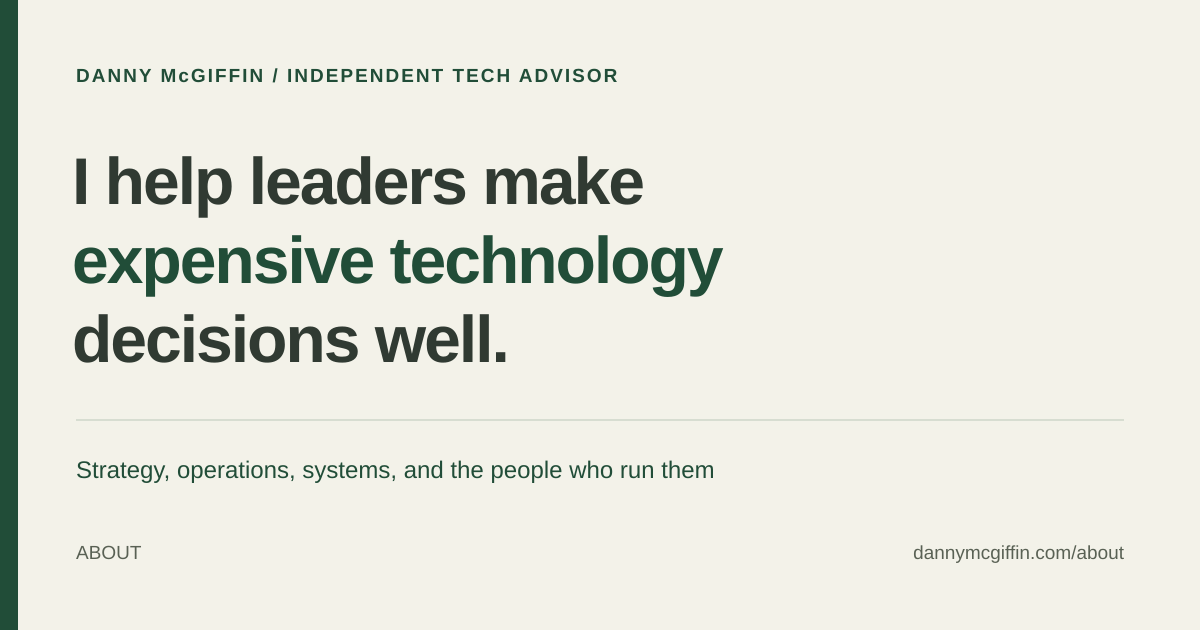
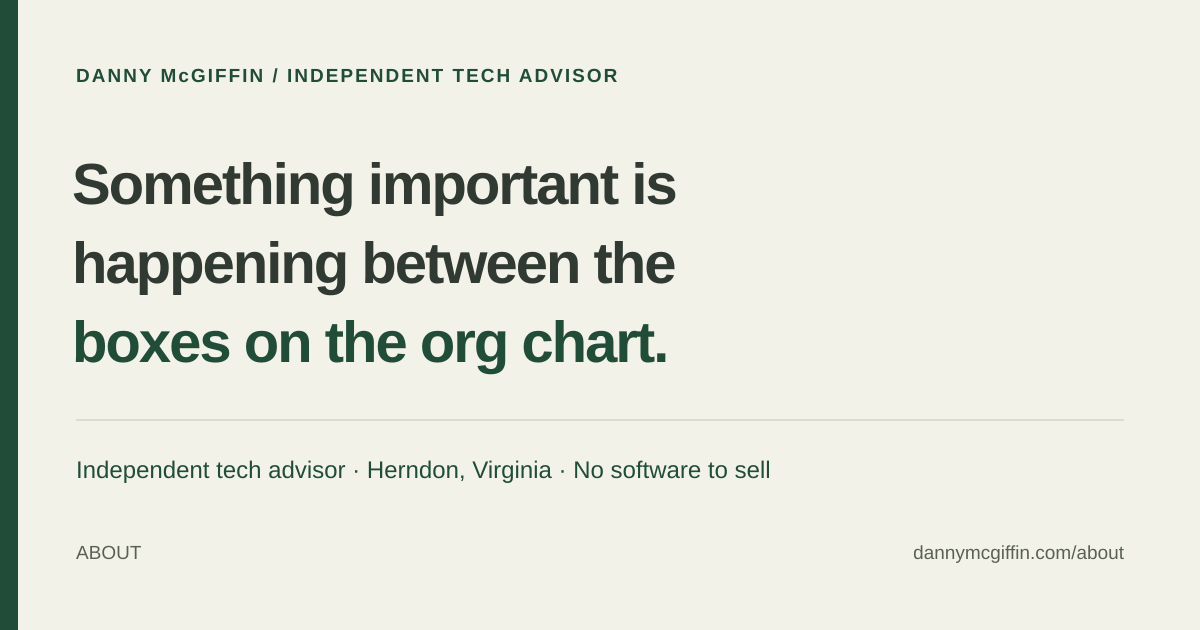
Rebuild About around the person; nest About under Home
- Lead with the between-the-boxes line, headshot, and a short intro
- Add the Army-to-independent arc and why independent
- Keep the pattern section once; drop buying-moment copy and the
  Northern Virginia link
- Case studies become teasers with role and principle, linking out
- Redraw the About share image
- Nav: About moves under Home and points to /about/
- Fix a straight apostrophe on the homepage and update tests for the
  new nav order and "completely independent" wording

diff --git a/src/styles/pages/about.css b/src/styles/pages/about.css
@@ -4,29 +4,26 @@ body.about-timeline-page { background: #fff; color: var(--advisor-ink); font-fam
 .about-column { max-width: 720px; margin-inline: auto; }
 .about-column p { margin: 0; }
 .about-column p + p { margin-top: 20px; }
-.about-intro { border-bottom: 1px solid var(--advisor-line-strong); padding-bottom: 32px; }
-.about-intro h1 { font-size: clamp(2.4rem, 4vw, 3.4rem); font-weight: 600; line-height: 1.1; letter-spacing: -.035em; margin: 0 0 20px; }
-.about-intro .about-lead { font-size: 1.3rem; line-height: 1.4; }
-.about-intro a, .about-contact a { color: var(--advisor-green); font-weight: 600; text-decoration: underline; text-underline-offset: 4px; }
-.about-opening { display: block; padding: 36px 0 52px; }
-.about-opening h2, .about-work > h2, .about-background h2 { color: var(--advisor-green); font-size: 15px; font-weight: 700; letter-spacing: .08em; line-height: 1.4; margin: 0 0 18px; text-transform: uppercase; }
-.about-opening .reading-copy { max-width: none; }
-.about-opening .reading-copy p { color: var(--advisor-ink); }
-.about-work { padding-top: 8px; }
+.about-intro { border-bottom: 1px solid var(--advisor-line-strong); padding-bottom: 36px; }
+.about-intro .about-eyebrow { color: var(--advisor-green); font-size: 15px; font-weight: 700; letter-spacing: .08em; line-height: 1.4; margin: 0 0 14px; text-transform: uppercase; }
+.about-intro h1 { font-family: var(--font-display); font-size: clamp(2rem, 3.4vw, 2.75rem); font-weight: 500; line-height: 1.15; letter-spacing: -.02em; margin: 0 0 32px; }
+.about-person { display: grid; grid-template-columns: 160px 1fr; gap: 28px; align-items: center; }
+.about-portrait { width: 160px; height: 160px; object-fit: cover; }
+.about-intro .about-lead { font-size: 1.2rem; line-height: 1.4; font-weight: 600; }
+.about-section { padding: 40px 0 0; }
+.about-section h2, .about-work > h2 { color: var(--advisor-green); font-size: 15px; font-weight: 700; letter-spacing: .08em; line-height: 1.4; margin: 0 0 18px; text-transform: uppercase; }
+.about-work { border-top: 1px solid var(--advisor-line-strong); margin-top: 52px; padding: 42px 0 44px; }
 .about-work > h2 { margin-bottom: 28px; }
-.about-work .case-story { position: relative; display: block; border: 0; border-left: 2px solid var(--advisor-line-strong); padding: 0 0 48px 36px; margin-left: 13px; scroll-margin-top: 32px; }
-.about-work .case-story:last-child { padding-bottom: 0; }
+.about-work .case-story { position: relative; border-left: 2px solid var(--advisor-line-strong); padding: 0 0 40px 36px; margin-left: 13px; scroll-margin-top: 32px; }
 .about-work .case-story::before { content: ""; position: absolute; left: -14px; top: 0; width: 26px; height: 26px; border: 3px solid #fff; border-radius: 50%; background: var(--advisor-green); box-shadow: 0 0 0 1px var(--advisor-line-strong); }
 .about-work .case-story > .eyebrow { margin: 0 0 5px; color: #657267; font-size: 12px; font-weight: 600; letter-spacing: .04em; text-transform: uppercase; }
-.about-work .case-story .story-body { max-width: none; }
-.about-work .case-story h2 { font-family: "Geist", Arial, sans-serif; font-size: clamp(1.3rem, 2.2vw, 1.65rem); font-weight: 600; line-height: 1.28; letter-spacing: -.02em; margin: 0 0 16px; }
-.about-work .case-story p { color: var(--advisor-ink); margin-top: 16px; font-size: 16px; }
-.about-work .case-story .case-summary { margin: 0 0 18px; color: var(--advisor-muted); font-size: 14px; line-height: 1.5; }
-.about-work .case-story .evidence-note { color: var(--advisor-muted); font-size: 14px; }
-.about-work .case-story .story-principle { color: var(--advisor-green); border-left: 2px solid var(--advisor-green); padding-left: 18px; margin-top: 24px; }
-.about-work .case-story ul { margin-top: 16px; color: var(--advisor-ink); }
-.about-background { border-top: 1px solid var(--advisor-line-strong); margin-top: 52px; padding: 42px 0 36px; }
-.about-background p { max-width: none; margin: 0 0 18px; color: var(--advisor-ink); }
+.about-work .case-story h3 { font-size: clamp(1.2rem, 2vw, 1.45rem); font-weight: 600; line-height: 1.3; letter-spacing: -.02em; margin: 0 0 12px; }
+.about-work .case-story h3 a { color: var(--advisor-ink); text-decoration: underline; text-decoration-color: var(--advisor-line-strong); text-underline-offset: 4px; }
+.about-work .case-story h3 a:hover { text-decoration-color: var(--advisor-green); }
+.about-work .case-story .case-summary { color: var(--advisor-muted); font-size: 14px; line-height: 1.5; }
+.about-work .story-principle { margin: 16px 0 0; padding-left: 18px; border-left: 2px solid var(--advisor-green); color: var(--advisor-green); font-family: var(--font-display); font-size: 1.2rem; line-height: 1.4; }
+.about-work .about-work-link { margin-left: 13px; padding-left: 38px; }
+.about-work a, .about-contact a { color: var(--advisor-green); font-weight: 600; text-decoration: underline; text-underline-offset: 4px; }
 .about-contact { border-top: 1px solid var(--advisor-line-strong); padding: 40px 0 54px; }
 .about-contact h2 { font-size: 1.6rem; font-weight: 600; line-height: 1.3; margin: 0 0 12px; }
 .about-contact a { display: inline-block; margin-top: 18px; }
@@ -39,5 +36,7 @@ body.about-timeline-page { background: #fff; color: var(--advisor-ink); font-fam
   .about-intro .about-lead { font-size: 1.16rem; }
   .about-work .case-story { padding-left: 25px; margin-left: 10px; }
   .about-work .case-story::before { left: -12px; width: 22px; height: 22px; }
-  .about-work .case-story h2 { font-size: 1.3rem; }
+  .about-person { grid-template-columns: 1fr; gap: 20px; }
+  .about-portrait { width: 120px; height: 120px; }
+  .about-work .about-work-link { padding-left: 25px; margin-left: 10px; }
 }

diff --git a/src/navigation.ts b/src/navigation.ts
@@ -11,8 +11,11 @@ export interface NavigationLink {
 }
 
 export const primaryLinks: NavigationLink[] = [
-  { href: "/", label: "Home" },
-  { href: "/#about", label: "About" },
+  {
+    href: "/",
+    label: "Home",
+    children: [{ href: "/about/", label: "About" }],
+  },
   {
     label: "Services",
     children: offers.map(({ href, name }) => ({ href, label: name })),

diff --git a/scripts/og-images.py b/scripts/og-images.py
@@ -14,7 +14,7 @@ HEADER = "DANNY McGIFFIN / INDEPENDENT TECH ADVISOR"
 CARDS = {
     "default": (["Straight answers about", "your business", "technology."], 1, "Tech Audit · Second Opinion · AI Opportunity · Data Connection", "VENDOR-NEUTRAL TECH ADVICE", ""),
     "home": (["Straight answers about", "your business", "technology."], 1, "Tech Audit · Second Opinion · AI Opportunity · Data Connection", "VENDOR-NEUTRAL TECH ADVICE", ""),
-    "about": (["I help leaders make", "expensive technology", "decisions well."], 1, "Strategy, operations, systems, and the people who run them", "ABOUT", "about"),
+    "about": (["Something important is", "happening between the", "boxes on the org chart."], 2, "Independent tech advisor · Herndon, Virginia · No software to sell", "ABOUT", "about"),
     "tech-audit": (["Find out what your", "technology actually", "costs, and what it’s worth."], 1, "$5,000 fixed fee · 10 business days · Money-back guarantee", "TECH AUDIT", "tech-audit"),
     "second-opinion": (["Before you commit,", "get an independent", "call."], 1, "From $2,500 · Fixed quote · Proceed, change, or stop", "SECOND OPINION", "second-opinion"),
     "ai-opportunity": (["Figure out what AI is", "actually worth doing", "in your business."], 1, "$5,000 fixed fee · 10 business days · A map of what comes next", "AI OPPORTUNITY", "ai-opportunity"),
